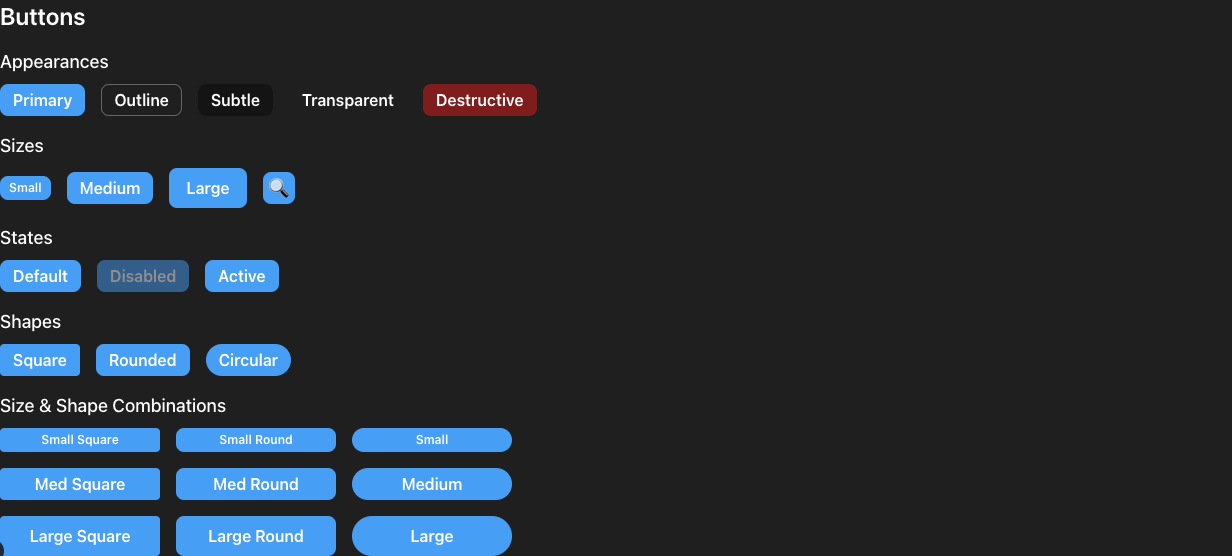
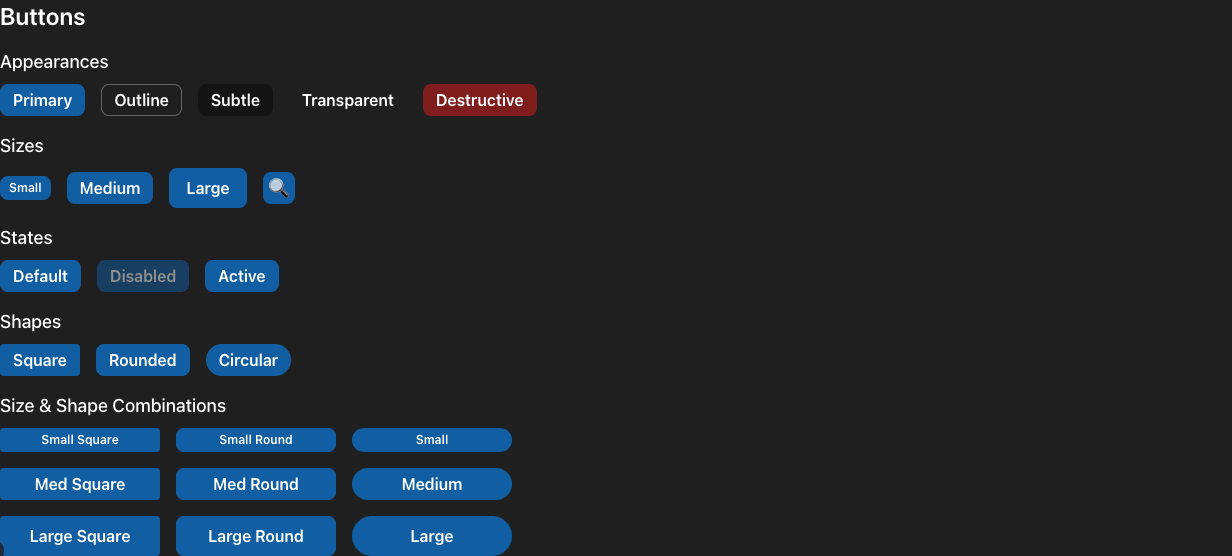
fix: update button styles and colors for consistency across themes

diff --git a/apps/www/styles/globals.css b/apps/www/styles/globals.css
@@ -72,12 +72,12 @@
     --mri-color-text-3: #707070;
     --mri-color-text-4: #bdbdbd;
 
-    --mri-color-brand-base: #0f6cbd;
+    --mri-color-brand-base: #115ea3;
     --mri-color-brand-text: #115ea3;
     
     /* Hover/active colors for light theme */
-    --mri-color-brand-hover: #0d5aa8; /* 85% lightness of brand */
-    --mri-color-brand-active: #0b4d91; /* 70% lightness of brand */
+    --mri-color-brand-hover: #0e4f8a; /* Darker for hover */
+    --mri-color-brand-active: #0c4372; /* Even darker for active */
 
     /* Legacy variable mappings for compatibility */
     --background: 0 0% 100%;
@@ -122,12 +122,12 @@
     --mri-color-text-3: #999999;
     --mri-color-text-4: #5c5c5c;
 
-    --mri-color-brand-base: #479ef5;
-    --mri-color-brand-text: #479ef5;
+    --mri-color-brand-base: #115ea3;
+    --mri-color-brand-text: #115ea3;
     
     /* Hover/active colors for dark theme */
-    --mri-color-brand-hover: #3d8bdc; /* 85% lightness of brand */
-    --mri-color-brand-active: #3275c3; /* 70% lightness of brand */
+    --mri-color-brand-hover: #0e4f8a; /* Darker for hover */
+    --mri-color-brand-active: #0c4372; /* Even darker for active */
 
     /* Legacy variable mappings for compatibility */
     --background: 0 0% 12%;
@@ -170,6 +170,14 @@
     font-synthesis-weight: none;
     text-rendering: optimizeLegibility;
     font-family: var(--mri-font-family-sans);
+  }
+
+  /* Ensure buttons with colored backgrounds have white text */
+  button[class*="bg-brand"],
+  button[class*="bg-destructive"],
+  button[class*="bg-[var(--mri-color-brand-base)]"],
+  button[class*="bg-[#e74c3c]"] {
+    color: #ffffff;
   }
 
   @supports (font: -apple-system-body) and (-webkit-appearance: none) {

diff --git a/apps/www/registry/default/ui/button.tsx b/apps/www/registry/default/ui/button.tsx
@@ -10,15 +10,15 @@ const buttonVariants = cva(
     variants: {
       variant: {
         default:
-          "bg-brand text-white border border-transparent hover:bg-[var(--mri-color-brand-hover)] active:bg-[var(--mri-color-brand-active)]",
+          "bg-[var(--mri-color-brand-base)] text-white border border-transparent hover:bg-[var(--mri-color-brand-hover)] active:bg-[var(--mri-color-brand-active)]",
         destructive:
-          "bg-destructive text-destructive-foreground border border-transparent hover:bg-destructive/90 active:bg-destructive/80",
+          "bg-[#e74c3c] text-white border border-transparent hover:bg-[#c0392b] active:bg-[#a93226]",
         outline:
-          "bg-background text-foreground border border-border hover:bg-background-2 active:bg-background-3",
+          "bg-transparent text-foreground border border-border hover:bg-background-2 active:bg-background-3",
         secondary:
-          "bg-background-2 text-foreground border border-transparent hover:bg-background-3 hover:text-brand-text active:bg-background-4 active:text-brand-text",
+          "bg-background-2 text-foreground border border-transparent hover:bg-background-3 active:bg-background-4",
         ghost:
-          "bg-transparent text-foreground border border-transparent hover:bg-background-2 hover:text-brand-text active:bg-background-3 active:text-brand-text",
+          "bg-transparent text-foreground border border-transparent hover:bg-background-2 active:bg-background-3",
         link: "text-brand-text underline-offset-4 hover:underline hover:text-[var(--mri-color-brand-hover)] active:text-brand",
       },
       size: {

diff --git a/apps/www/registry/new-york/ui/button.tsx b/apps/www/registry/new-york/ui/button.tsx
@@ -10,15 +10,15 @@ const buttonVariants = cva(
     variants: {
       variant: {
         default:
-          "bg-brand text-white border border-transparent hover:bg-[var(--mri-color-brand-hover)] active:bg-[var(--mri-color-brand-active)]",
+          "bg-[var(--mri-color-brand-base)] text-white border border-transparent hover:bg-[var(--mri-color-brand-hover)] active:bg-[var(--mri-color-brand-active)]",
         destructive:
-          "bg-destructive text-destructive-foreground border border-transparent hover:bg-destructive/90 active:bg-destructive/80",
+          "bg-[#e74c3c] text-white border border-transparent hover:bg-[#c0392b] active:bg-[#a93226]",
         outline:
-          "bg-background text-foreground border border-border hover:bg-background-2 active:bg-background-3",
+          "bg-transparent text-foreground border border-border hover:bg-background-2 active:bg-background-3",
         secondary:
-          "bg-background-2 text-foreground border border-transparent hover:bg-background-3 hover:text-brand-text active:bg-background-4 active:text-brand-text",
+          "bg-background-2 text-foreground border border-transparent hover:bg-background-3 active:bg-background-4",
         ghost:
-          "bg-transparent text-foreground border border-transparent hover:bg-background-2 hover:text-brand-text active:bg-background-3 active:text-brand-text",
+          "bg-transparent text-foreground border border-transparent hover:bg-background-2 active:bg-background-3",
         link: "text-brand-text underline-offset-4 hover:underline hover:text-[var(--mri-color-brand-hover)] active:text-brand",
       },
       size: {

diff --git a/CLAUDE.md b/CLAUDE.md
@@ -127,3 +127,7 @@ Components are not distributed as npm packages but through a registry system:
 - Uses changesets for version management
 - Follow conventional commits: `feat:`, `fix:`, `docs:`, etc.
 - Run `pnpm changeset` to document changes
+
+## Memories
+
+- Still didn't work and we shouldnt use !important declarations anywhere.
